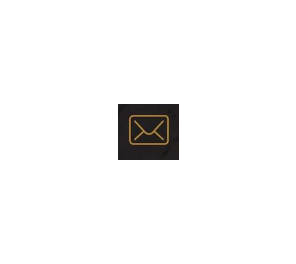
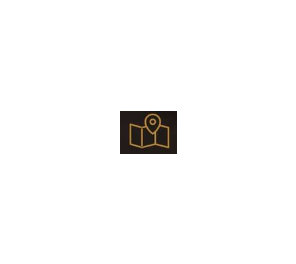
finished

Changed region(s): [[0.3953, 0.3939, 0.6081, 0.6061]]

diff --git a/style.css b/style.css
@@ -174,20 +174,41 @@ a:active {
 }
 #direccion {
   height: 58%;
+
+  background-image: url(https://th.bing.com/th/id/OIP.GrH0SKWQjNg1yRHdkoBq4AHaEK?pid=ImgDet&rs=1);
+  background-size: cover;
+
+}
+#direccion p {
+color:white;
+font-size: 1vw;
+}
+.direccionbox{
+  text-align: center;
+  height: 58%;
   background-color: rgb(36, 167, 58);
   background-image: url(https://th.bing.com/th/id/OIP.GrH0SKWQjNg1yRHdkoBq4AHaEK?pid=ImgDet&rs=1);
   background-size: cover;
   overflow: hidden;
 }
-#direccion p {
-color:white;
+.directionbox p{
+  text-transform: uppercase;
 }
-.direccionbox{
-  text-align: center;
+.direccionimg{
+  width: 137px;
+    height: 76px;
+    object-fit: none;
+    margin-top: 6%;
 }
 .contactbox{
   display: flex;
   justify-content: center;
+  justify-content: space-evenly;
+}
+.contactbox img {
+  width: 56px;
+    height: 41px;
+    object-fit: none;
 }
 #siguenos {
   height: 42%;
